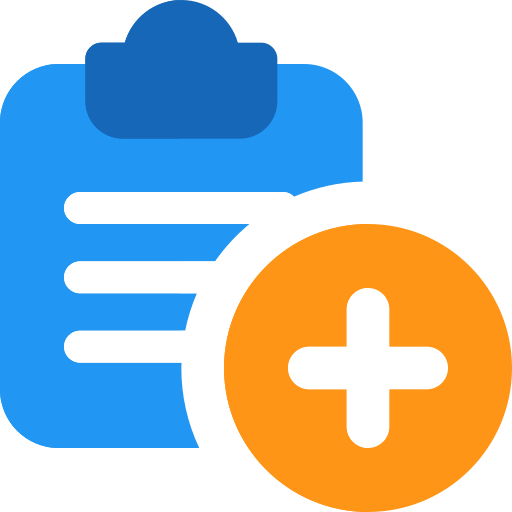
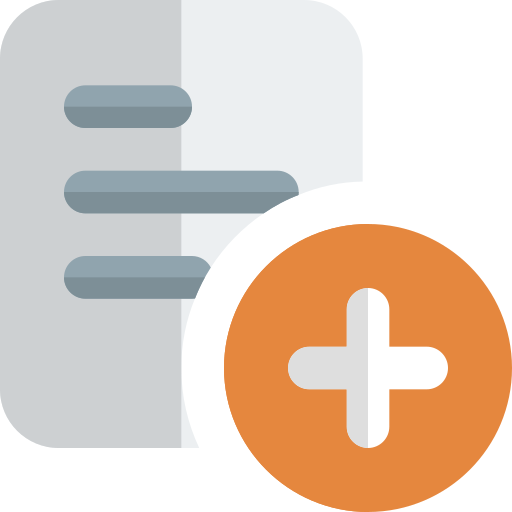
UPDATED: add employee and add job image

diff --git a/frontend/src/styles/JobsPage.css b/frontend/src/styles/JobsPage.css
@@ -5,7 +5,7 @@
   margin-top: 12px;
   width: 100%;
   padding: 16px;
-  min-height: 100vh;
+  min-height: 75vh;
   animation: rise-in 0.6s ease both;
 }
 
